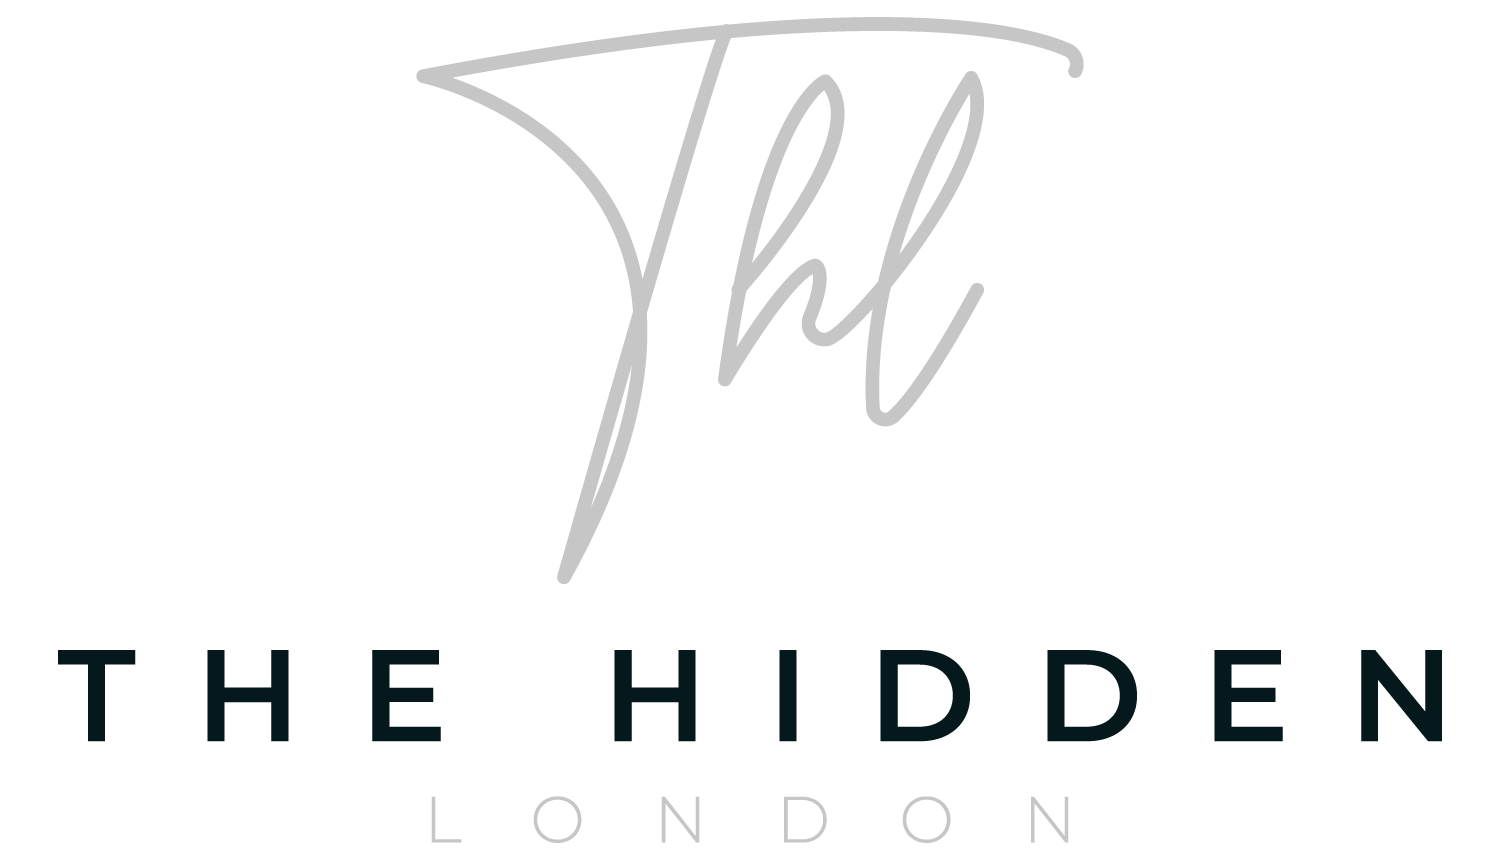
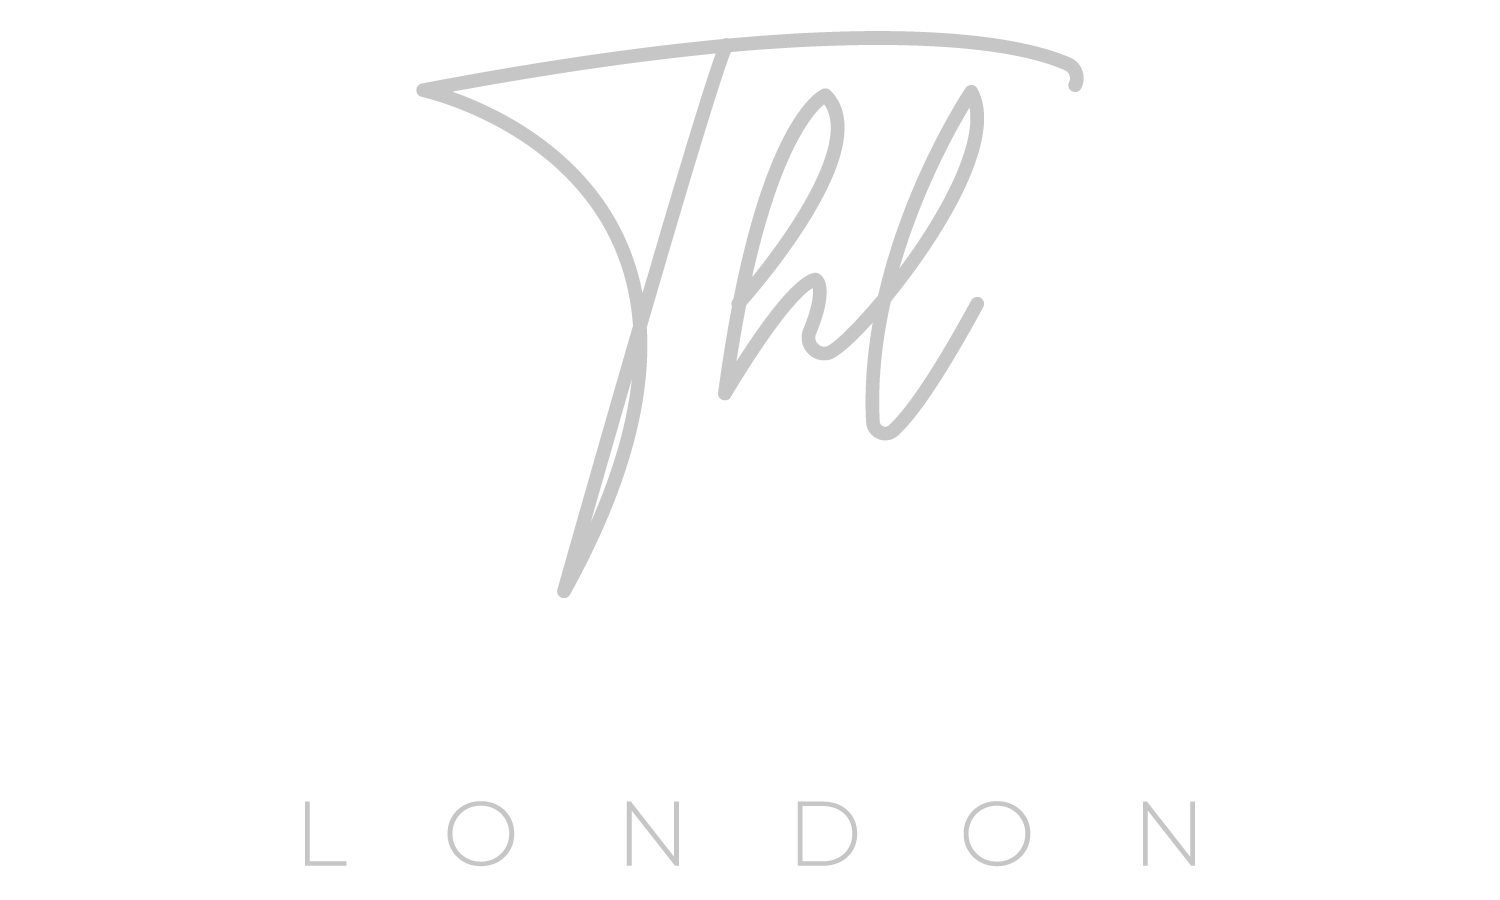
Ajuste de colores

diff --git a/THL/css/style.css b/THL/css/style.css
@@ -1387,7 +1387,7 @@ Topbar
 
 #topbar.dark.topbar-transparent {
     background-color: transparent;
-    border-bottom: 1px solid rgba(144, 144, 144, 0.25);
+    border-bottom: 1px solid transparent;
 }
 
 #topbar~#header[data-transparent="true"]+#slider,
@@ -20942,8 +20942,7 @@ body[data-bg-image] {
 }
 
 .header-sticky .header-inner #logo a.content-logo {
-    /* background-image: url('../images/logo-darck.jpg'); */
-    background-image: url('../images/01.png');
+    background-image: url('../images/02.png');
 }
 
 .arrowScrollDown {
